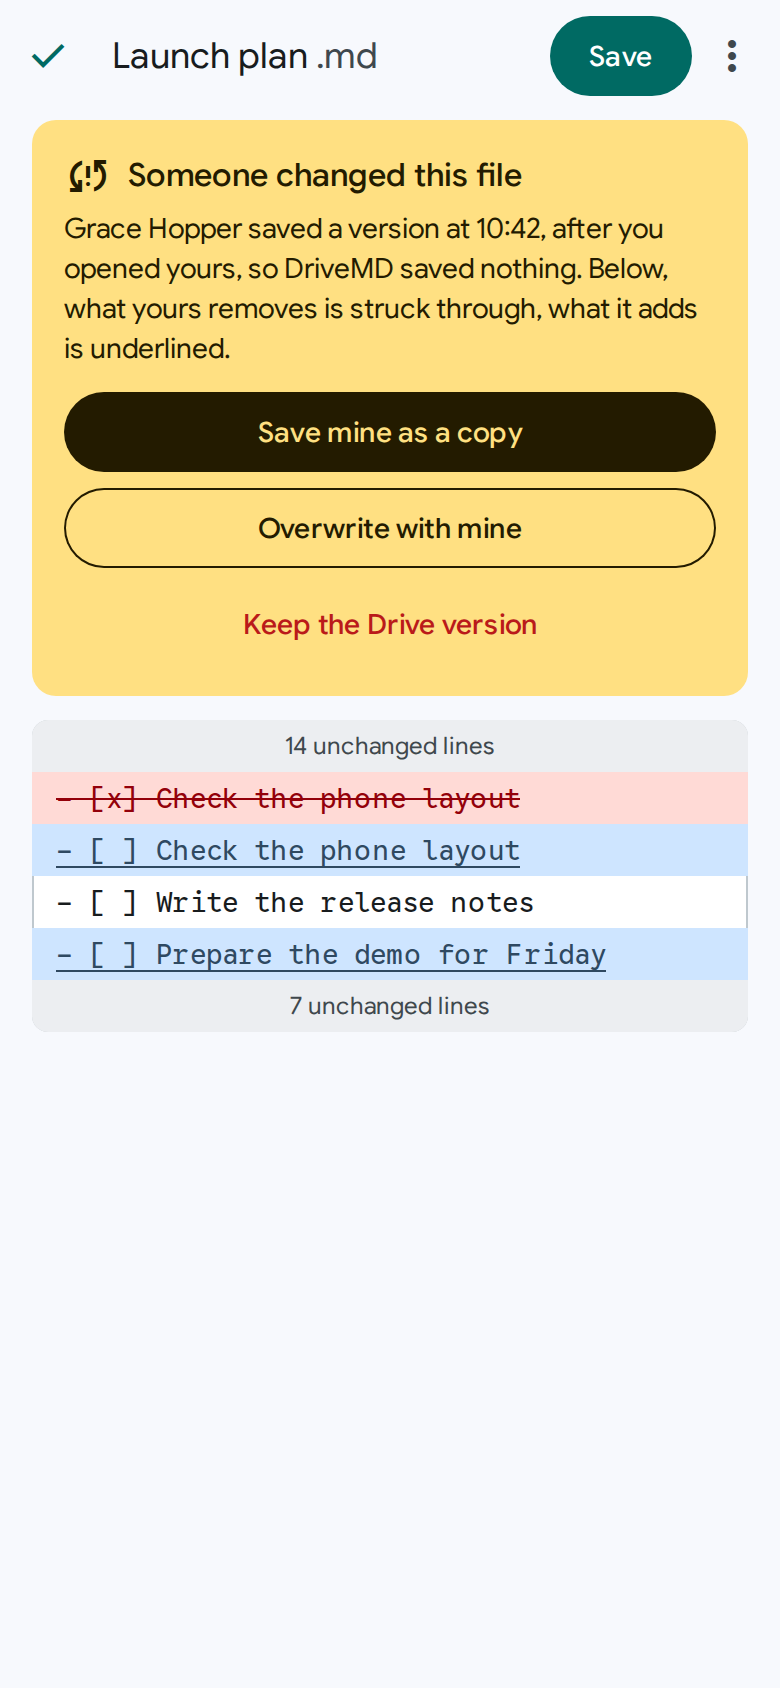
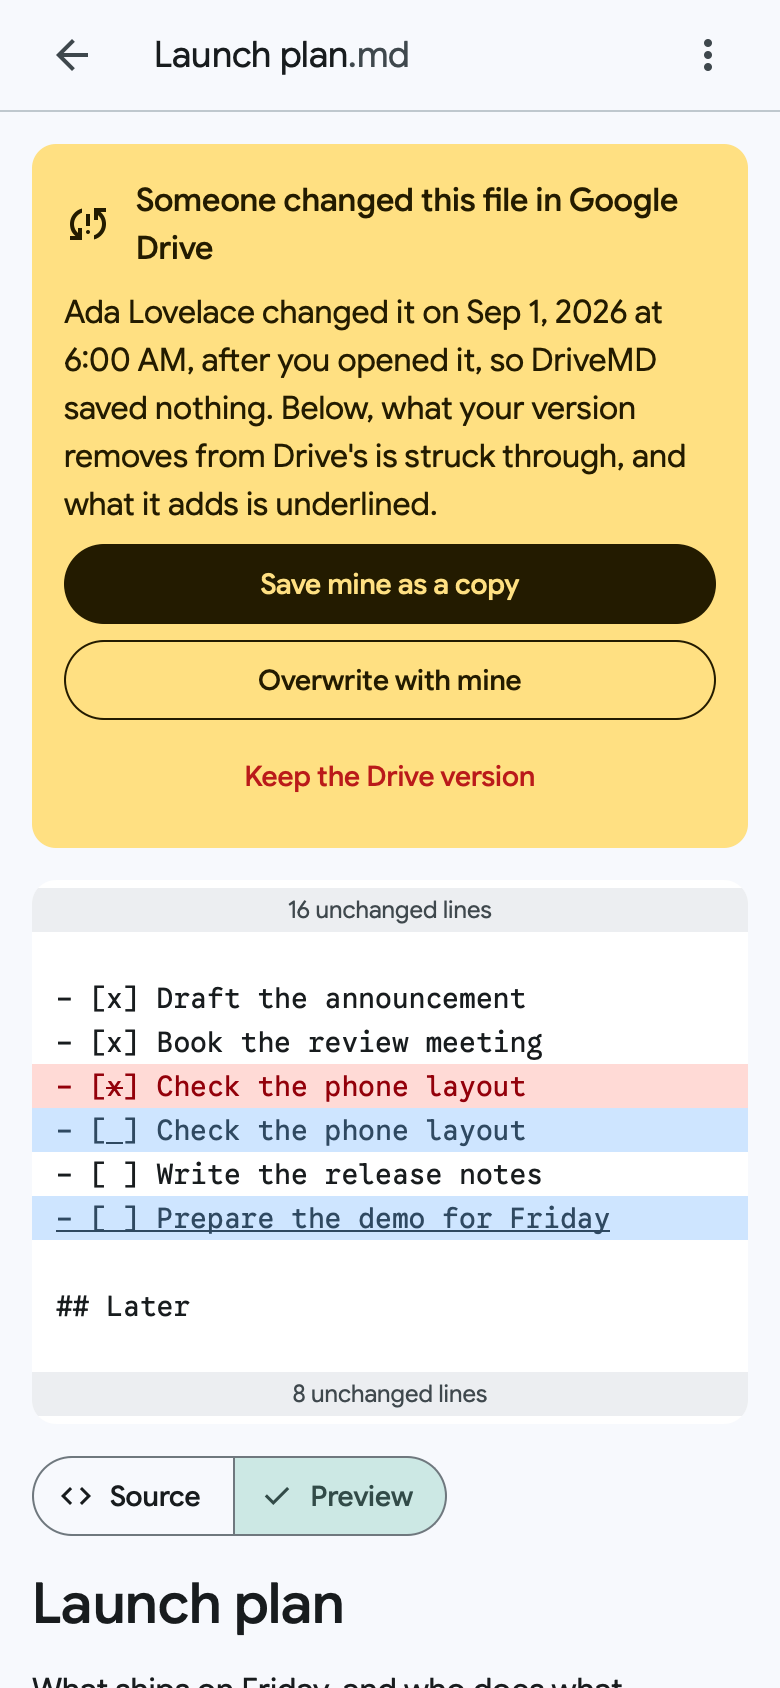
docs(design): draw the conflict's mockups as the app shows a conflict (#263)
The Android checks found the conflict's mockups and the app apart (#247).
The mockups now take the app's side, drawn from the app on made-up data:
no Save in the bar, since nothing saves the note until the user chooses;
on the phone, Back in place of Done, More actions kept, the banner's title
"Someone changed this file in Google Drive", and Source and Preview under
the differences, right above the note, as #262 puts them; on a computer,
the note's folder list at the left of the banner and the differences,
which line up with the sheets.

The differences mark only the characters that changed within a line, as
the app does: striking a whole line would hide the one character that
changed, as in `- [x]` becoming `- [ ]`, the more so where a phone wraps
the line. The spec and `docs/DESIGN.md` now say so.

Closes #247.

diff --git a/docs/SPEC.md b/docs/SPEC.md
@@ -91,7 +91,7 @@ The interface is in English. On a phone or a tablet, it follows the system's lig
    - Unsaved text is kept on the device (IndexedDB) as the user types, half a second after the last change and at once when the page hides or goes, so it survives a reload, a crash or iOS closing the app. It is kept per account, with the revision it was edited from and the note's name and resource key, so that Home lists it at once and opens it even when shared by link. Reopening the file offers to restore it or discard it, with or without a connection, and editing waits for the answer; restoring writes nothing, and the next save of a note that changed in Drive since leads to the conflict choice. The device forgets the text once nothing is unsaved while the page shows, after a save, edits undone by hand or Drive's version kept after a conflict, when a copy is saved after one, and when the note opens with the very text the device holds. A device that keeps nothing still lets the user edit.
    - The app writes only when the bytes actually changed.
    - Offline, a save fails at once and says to check the connection, and so does any other write to Drive: none waits to run later, unasked, perhaps once the user has left the page. What a change must read first, such as a rename's vault check, waits for the connection as any read does. Nor does a save open Google's window to renew an expired session then, since it could not load.
-   - Before writing, it checks that nobody else changed the file since it was opened (conflict check). If someone did, a banner says who changed the file last and when, as far as Drive says, over the differences between the Drive version and the user's version, and the user chooses, the safest first: save their version as a copy named `<name> (conflict).md` in the same folder, overwrite the Drive version with theirs, or keep the Drive version. A choice that fails says why and leaves the choice open, and nothing else saves the note until the user makes one. The differences show the user's version in one view that reads on a phone: what it removes from Drive's struck through, what it adds underlined, each on a color of its own. Keeping Drive's version asks first, since the user's changes then go. Overwriting keeps Drive's revision in the file's history; the copy opens once saved, and is offered only where the file's folder is known. Restoring a local copy of a file that changed in Drive leads to the same choice.
+   - Before writing, it checks that nobody else changed the file since it was opened (conflict check). If someone did, a banner says who changed the file last and when, as far as Drive says, over the differences between the Drive version and the user's version, and the user chooses, the safest first: save their version as a copy named `<name> (conflict).md` in the same folder, overwrite the Drive version with theirs, or keep the Drive version. A choice that fails says why and leaves the choice open, and nothing else saves the note until the user makes one. The differences show the user's version in one view that reads on a phone: what it removes from Drive's struck through, what it adds underlined, each on a color of its own, which never tells a change alone. Within a line that changed, they mark only the characters that changed, so that a change of one character, such as `- [x]` becoming `- [ ]`, shows where it is, even where a phone wraps the line; a line that only one version holds is marked whole. Keeping Drive's version asks first, since the user's changes then go. Overwriting keeps Drive's revision in the file's history; the copy opens once saved, and is offered only where the file's folder is known. Restoring a local copy of a file that changed in Drive leads to the same choice.
    - Before the first write of an editing session, it marks the file's current revision as kept forever, so the pre-edit version survives Drive's revision cleanup. That revision stays in the file's version history until someone deletes it there, even when it holds text the user then removes on purpose, such as a pasted secret.
    - It warns before leaving a page with unsaved changes: the browser does for a reload, a closed tab or another site, and the app asks before opening another of its pages, but not for the note's own address, as after a rename, nor once the user chose to go, as after trashing the note or saving a copy. iOS does not show the browser's warning reliably, and the browser's Back is not asked; there, the local copy is the safety net.
 7. **File operations.**

diff --git a/docs/DESIGN.md b/docs/DESIGN.md
@@ -133,7 +133,7 @@ Measurements are in CSS pixels; colors are tokens.
 - **Search.** On a wide screen, a 48 px pill on `surface-container-high`, at most 720 px wide, `sheet` with `--elevation-1` while focused. On a phone, an icon that opens a full-screen search on `surface-container-high`, with Back and Clear.
 - **Badge.** 20 px, `--radius-xs`, label-medium: neutral (outline) for what an item is (Shortcut), `secondary-container` for where it belongs (Vault), `attention-container` for what the user cannot do (Read only).
 - **Banner.** Under the app bar, `--radius-md`, 16 px of padding: an icon, a title-medium title, one or two sentences, and its actions. `attention-container` for a decision, `error-container` for a failure, `secondary-container` for a tip, such as how to add DriveMD to the Home Screen, whose one action, Got it, is a text button, or a new version of DriveMD, with its `refresh` icon and two text buttons, Reload then Later. The conflict's actions go by risk: Save mine as a copy (filled), Overwrite with mine (outlined), Keep the Drive version (danger text, which asks again).
-- **Differences.** Google Sans Code at 14 / 22 on `sheet`, lines padded 12 px; unchanged runs folded into a `surface-container` line ("14 unchanged lines").
+- **Differences.** Google Sans Code at 14 / 22 on `sheet`, lines padded 12 px; unchanged runs folded into a `surface-container` line ("14 unchanged lines"). A changed line shows twice, Drive's then the user's, each on its own color, with only the characters that changed struck through or underlined; a line that only one version holds is struck through or underlined whole.
 - **Snackbar.** `inverse-surface`, `--radius-xs`, `--elevation-3`, at the bottom left (bottom on a phone): one past-tense sentence ("Saved to Google Drive") and at most one action in `inverse-primary`, gone after 4 seconds, 10 with an action.
 - **Dialog.** `surface-container-high`, `--radius-xl`, `--elevation-3`, over a `scrim` at 32%: the question as its title, one or two sentences of consequence, then Cancel and the action named by its verb, a loss in danger.
 - **Keyboard toolbar.** `surface-container`, 48 px, 44 px keys that scroll sideways, as the spec describes it.
